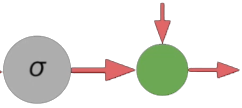
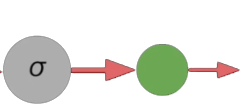
Implemented Basic NN Algorithms

Changed region(s): [[0.6364, 0.0278, 0.7231, 0.4167]]

diff --git a/JI/ViewController.swift b/JI/ViewController.swift
@@ -10,7 +10,11 @@ import Cocoa
 
 class ViewController: NSViewController {
 
-    dynamic var abs = 1.0
+    dynamic var abs = 1.0 
+    dynamic var absLab = "ABS Error"
+    dynamic var useABS = true
+    dynamic var smallredarr = true
+    dynamic var arrFromABS = false
     dynamic var inp = -0.5 {
         didSet {
             N1()
@@ -41,8 +45,9 @@ class ViewController: NSViewController {
     dynamic var result : Double = 1.0
     dynamic var n1 : Double  = 0.0
     dynamic var n2 : Double = 0.0
+    dynamic var ty : String  = "ReLU"
     
-    dynamic var relu : Double = 0.0
+    dynamic var selectedFormula : Double = 0.0
     
     override func viewDidLoad() {
         super.viewDidLoad()
@@ -73,18 +78,61 @@ class ViewController: NSViewController {
     func N2() {
         DispatchQueue.main.async {
             self.n2 = (self.n1 * self.n2w) + self.n2b
-            
-            self.ReLu()
         }
     }
     
-    func ReLu() {
+    @IBAction func ReLu(_ sender: Any) {
         DispatchQueue.main.async {
-            self.relu = max(0.0, self.n2)
-            self.result = self.abs - self.relu
+            self.selectedFormula = max(0.0, self.n2)
+            self.result = max(0.0, (self.abs - self.selectedFormula))
+            self.ty = #function
+            self.choiceOfVisuals(ABS: true, arrowFromABS: false, smallArrow: true)
+            self.absLab = "ABS Error"
         }
     }
+    
+    @IBAction func Sigmoid(_ sender: Any) {
+        DispatchQueue.main.async {
+            self.ty = #function
+            self.choiceOfVisuals(ABS: false, arrowFromABS: false, smallArrow: false)
+            
+            self.selectedFormula = 1/(1 + exp(-self.n2))
+            self.result = self.selectedFormula
+        }
+    }
+    
+    @IBAction func Linear(_ sender: Any) {
+        self.ty = #function
+        self.selectedFormula = self.linear(x: [self.n1], w: [self.n2w])
+        self.result = self.abs - self.selectedFormula
+        self.choiceOfVisuals(ABS: true, arrowFromABS: false, smallArrow: true)
+        self.absLab = "ABS Error"
+    }
+    
+    @IBAction func Binary(_ sender: Any) {
+        self.ty = #function
+        self.choiceOfVisuals(ABS: true, arrowFromABS: true, smallArrow: false)
+        
+        let bin = self.n1 * self.n2w
+        self.n2 = bin
+        self.absLab = "Threshold"
+        self.selectedFormula = bin > self.abs ? 1 : 0
+        self.result = self.selectedFormula
+    }
+    
+    func choiceOfVisuals(ABS: Bool, arrowFromABS: Bool, smallArrow: Bool) {
+        self.useABS = ABS
+        self.smallredarr = smallArrow
+        self.arrFromABS = arrowFromABS
+    }
 
+    func linear(x: [Double], w: [Double]) -> Double {
+        var liner = 0.0
+        for i in 0..<x.count {
+            liner += x[i] * w[i]
+        }
+        return liner + self.n2b
+    }
 
 }
 
